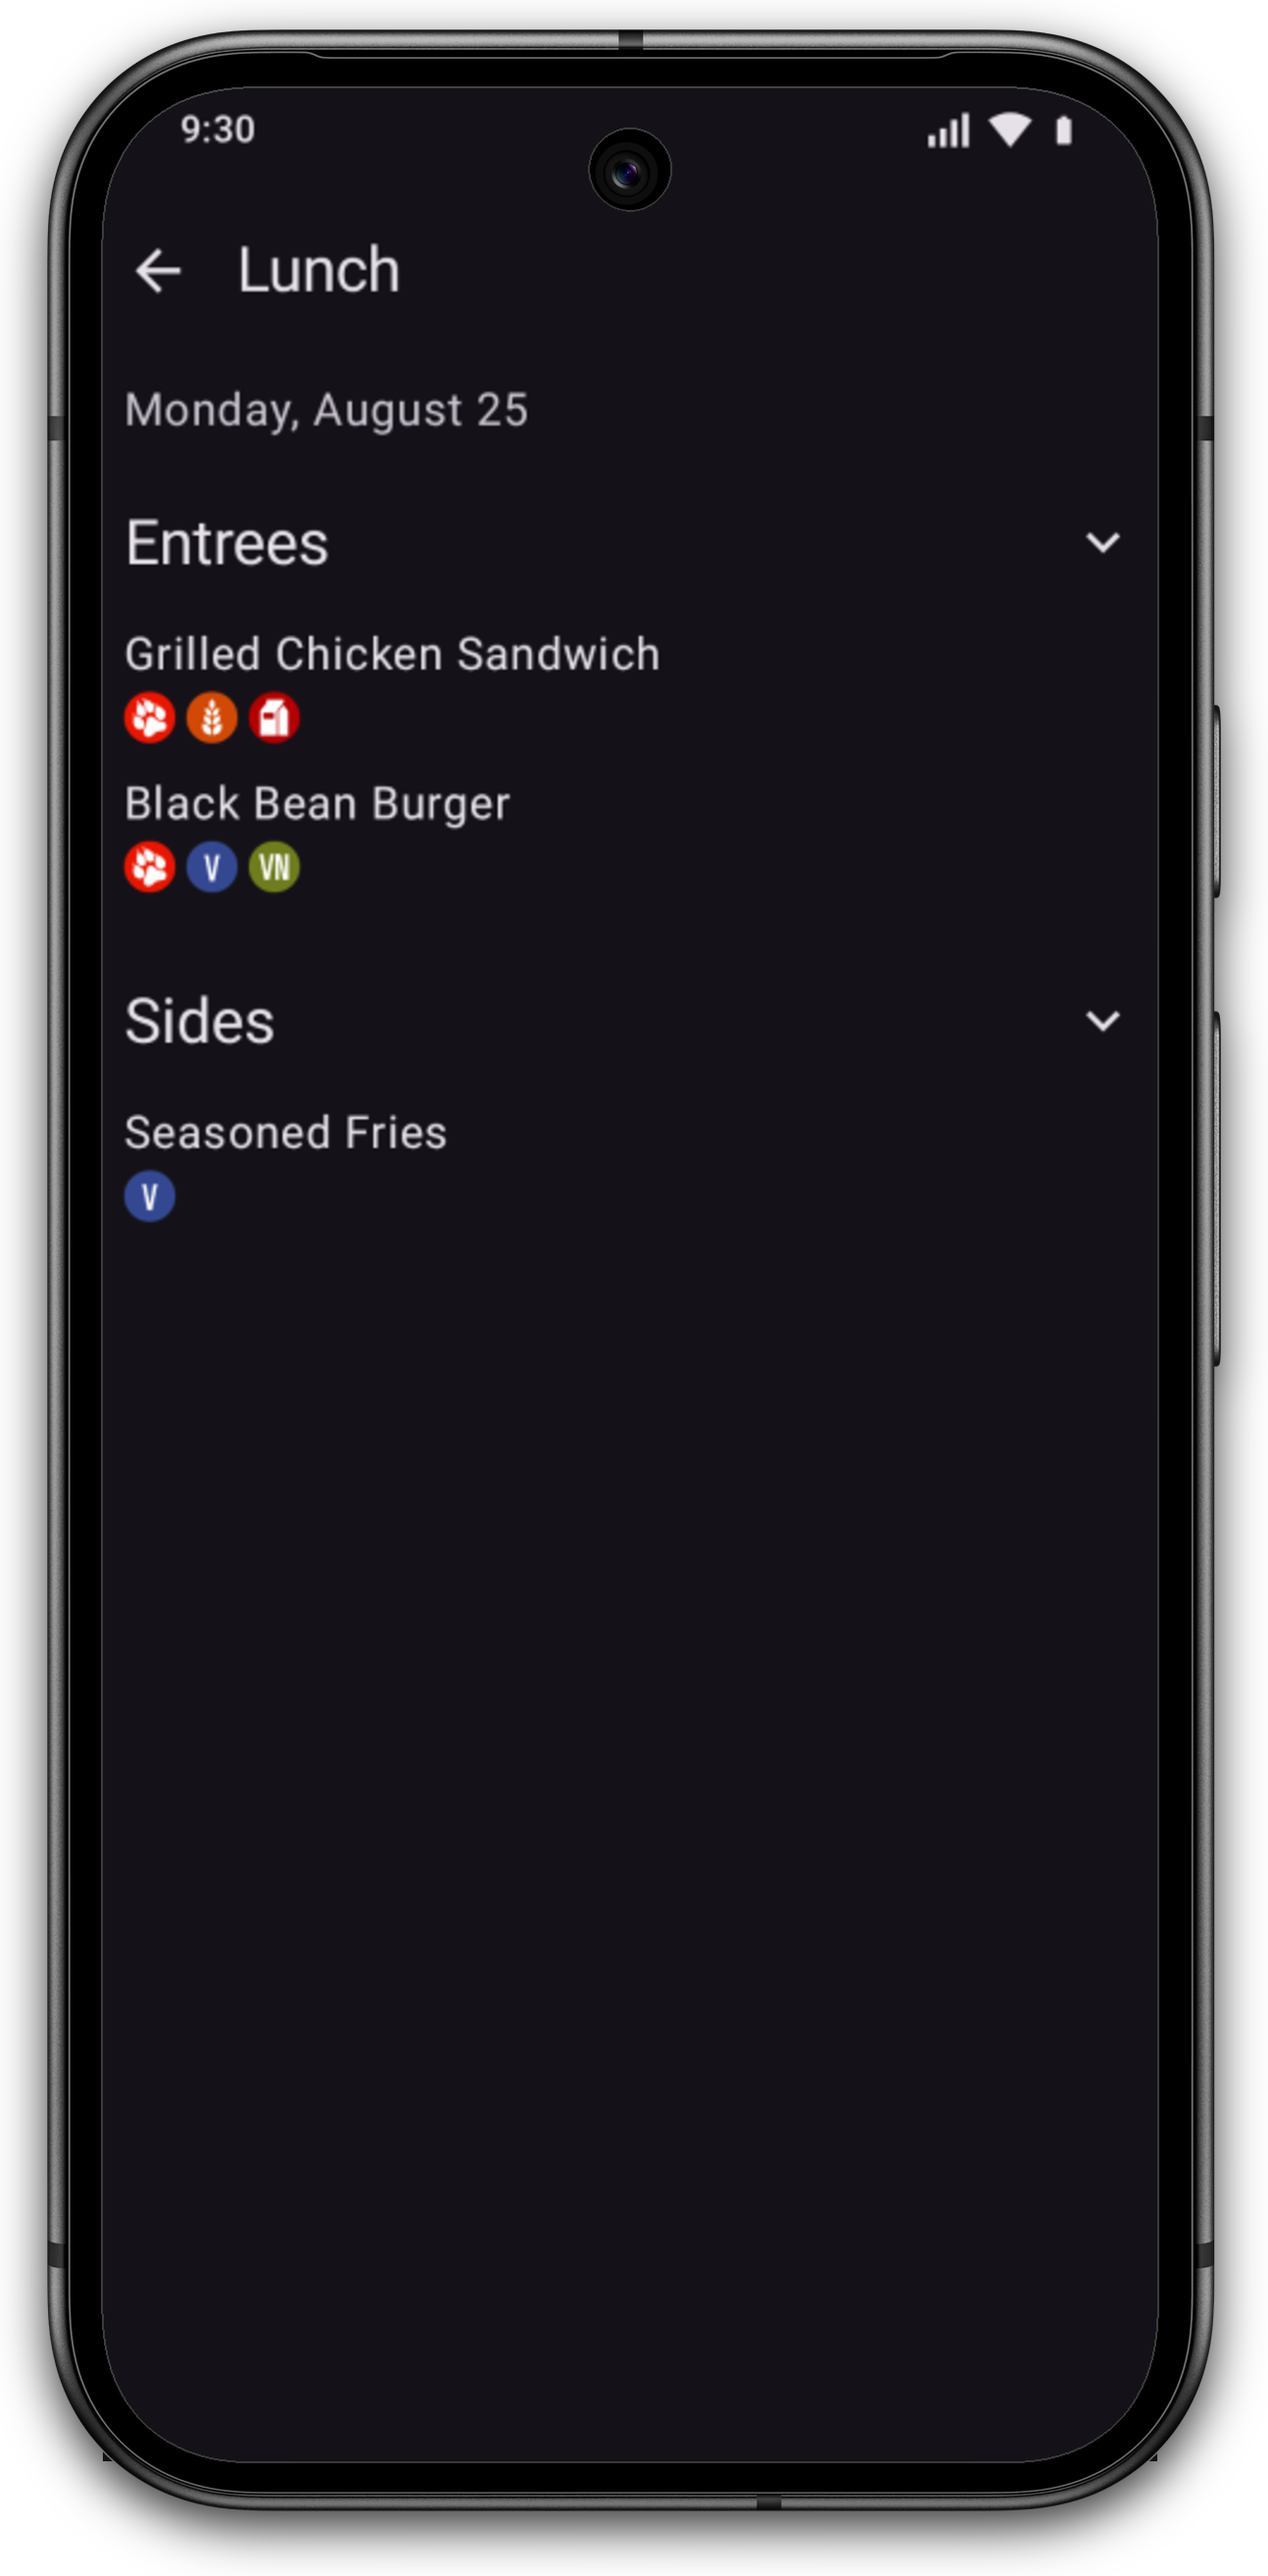
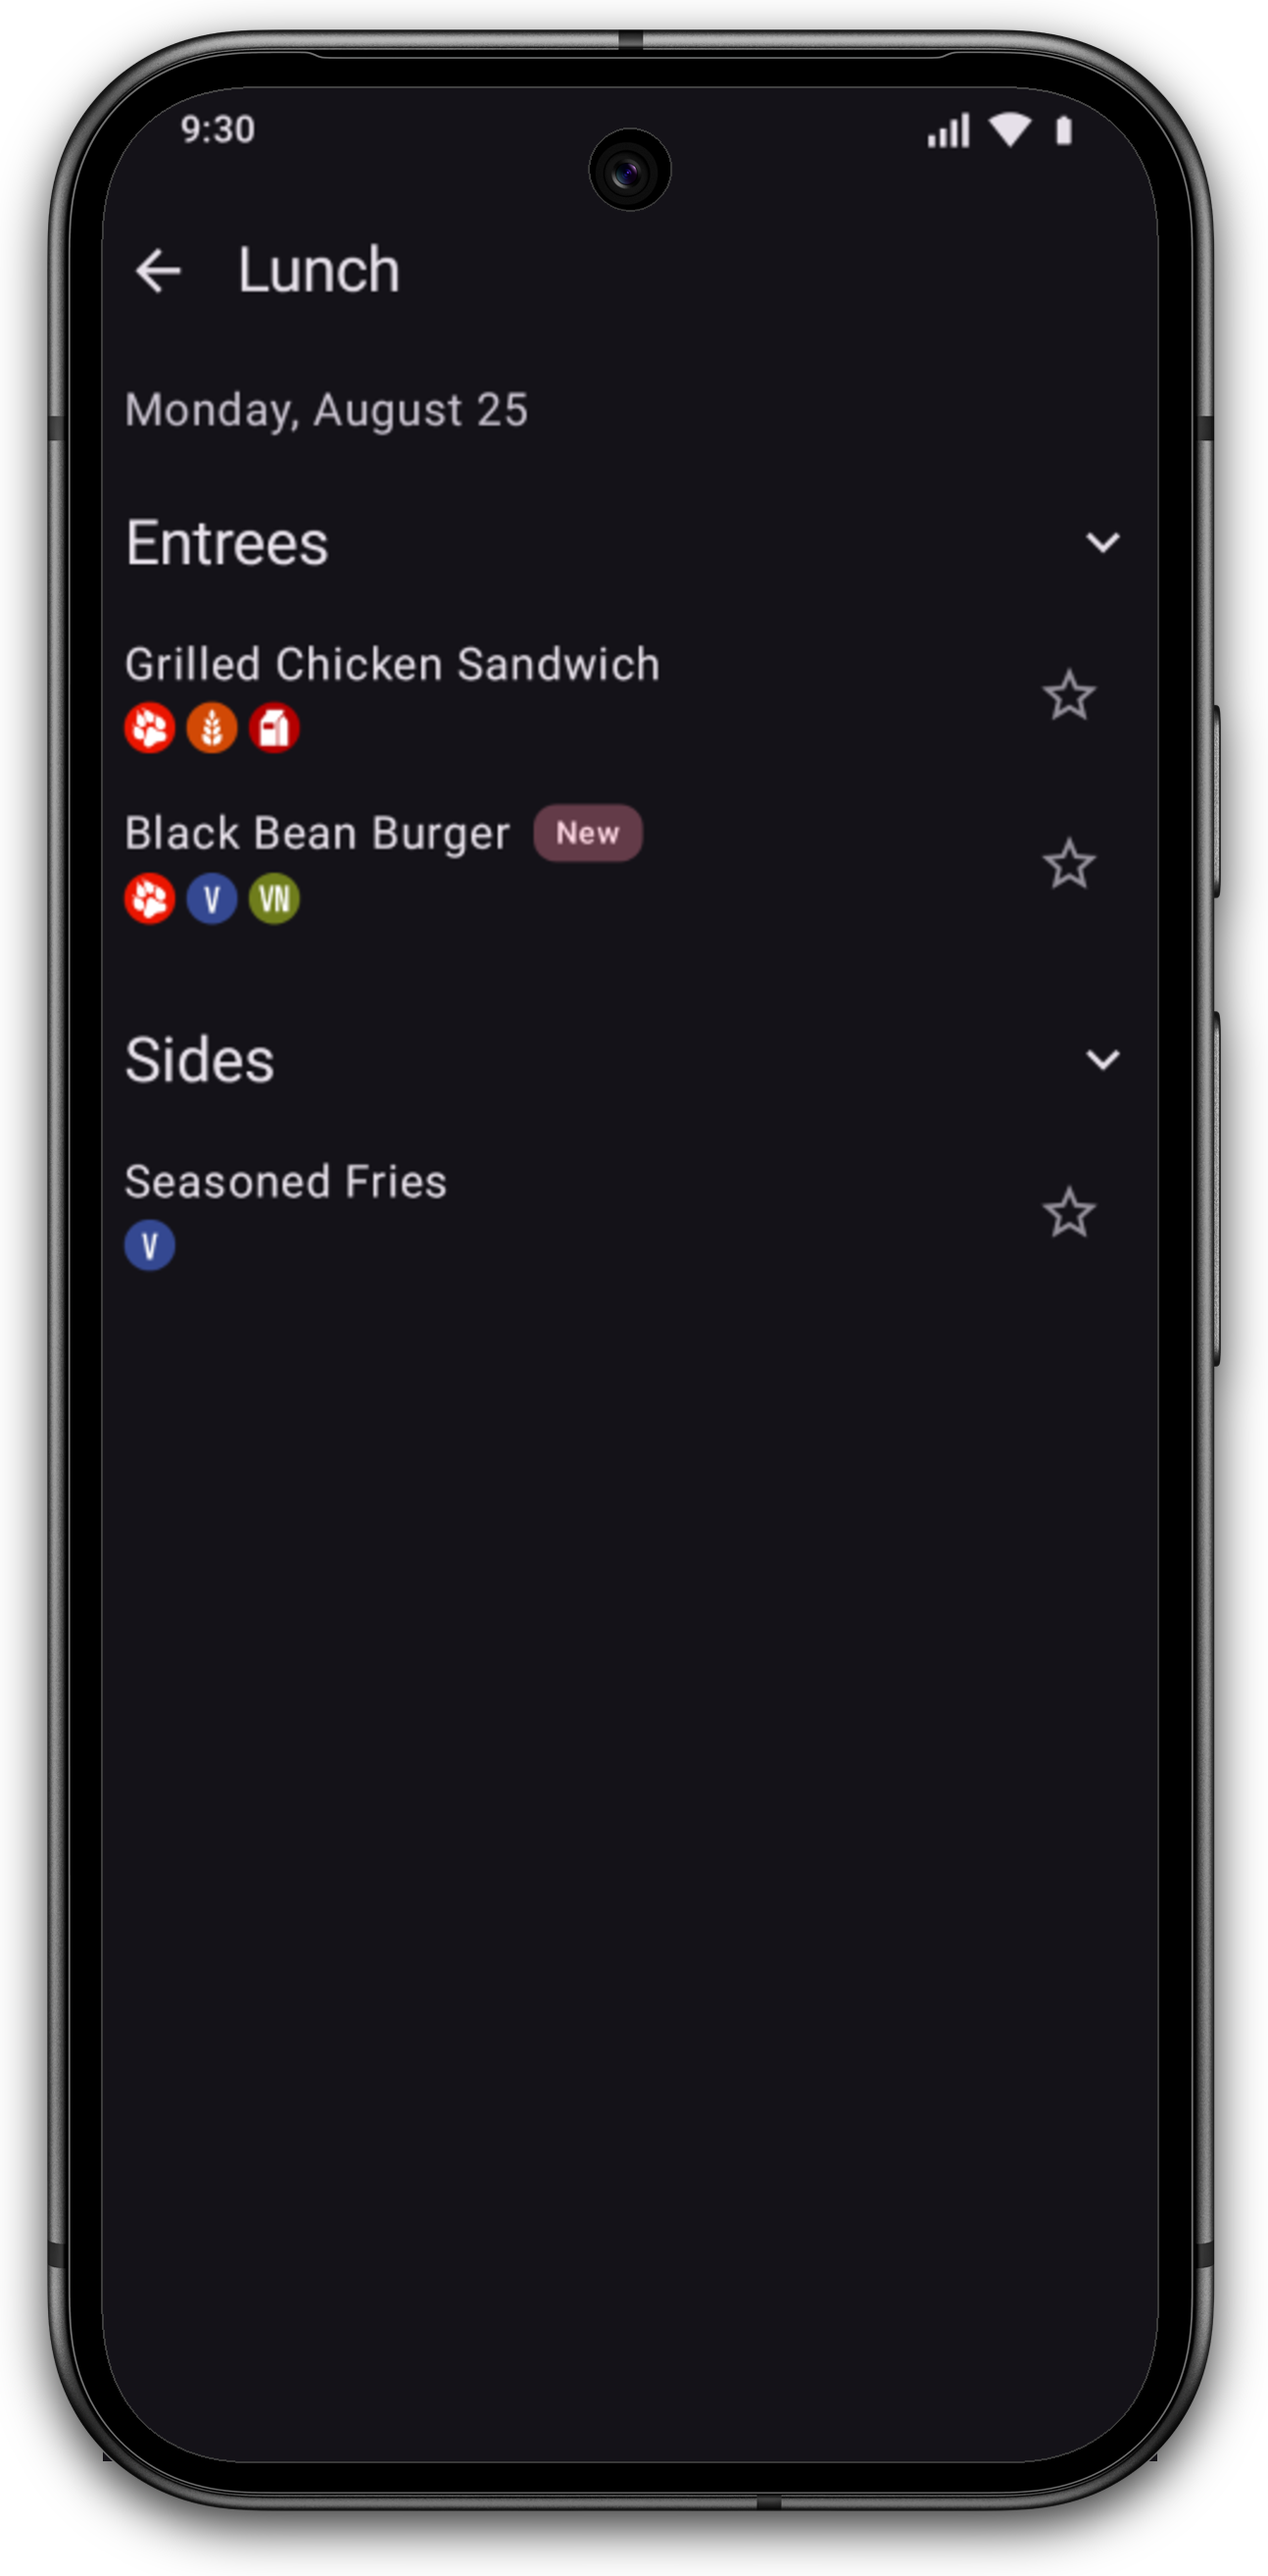
Add a "New" tag next to items that haven't been seen before at any given location

diff --git a/backend/src/main/kotlin/org/appdevncsu/foodfinder/shared/Database.kt b/backend/src/main/kotlin/org/appdevncsu/foodfinder/shared/Database.kt
@@ -46,6 +46,13 @@ object Database {
         val itemName: String,
     )
 
+    private data class MenuQueryData(
+        val menuDate: LocalDate,
+        val turnover: Map<Int, Double>,
+        val firstSeenByName: Map<String, LocalDate>,
+        val rows: List<ResultRow>,
+    )
+
     private val turnoverCache = ConcurrentHashMap<Int, TurnoverCacheEntry>()
 
     // Locations sourced from NetNutrition (netmenu2.cbord.com), keyed by NetNutrition unit ID.
@@ -376,25 +383,31 @@ object Database {
     }
 
     fun getMenu(menuId: Int): List<MenuSection> {
-        val (turnover, rows) = transaction {
-            val locationId = Menus
+        val data = transaction {
+            val menu = Menus
                 .selectAll()
                 .where { Menus.id eq menuId }
-                .singleOrNull()?.get(Menus.locationId)
+                .singleOrNull()
                 ?: return@transaction null
+            val locationId = menu[Menus.locationId]
 
-            val turnover = getSectionTurnover(locationId)
             val rows = MenuItems
                 .innerJoin(SectionsToItems) { MenuItems.id eq SectionsToItems.itemId and (SectionsToItems.menuId eq menuId) }
                 .leftJoin(MenuSections) { MenuSections.id eq SectionsToItems.sectionId }
                 .selectAll()
                 .orderBy(MenuSections.id to SortOrder.ASC).toList()
-            turnover to rows
+
+            MenuQueryData(
+                menuDate = menu[Menus.date],
+                turnover = getSectionTurnover(locationId),
+                firstSeenByName = getFirstSeenByLocation(locationId),
+                rows = rows,
+            )
         } ?: return emptyList()
 
         val sections = mutableListOf<MenuSection>()
         var section: MenuSection? = null
-        for (row in rows) {
+        for (row in data.rows) {
             if (section == null || row[MenuSections.id] != section.id) {
                 if (section != null) sections.add(section)
                 section = MenuSection(
@@ -403,12 +416,15 @@ object Database {
                     items = mutableListOf()
                 )
             }
+            val name = row[MenuItems.name]
+            val firstSeen = data.firstSeenByName[name.trim().lowercase()]
             (section.items as MutableList).add(
                 MenuItem(
                     id = row[MenuItems.id],
                     sectionId = row[SectionsToItems.sectionId],
-                    name = row[MenuItems.name],
-                    flags = row[MenuItems.flags]
+                    name = name,
+                    flags = row[MenuItems.flags],
+                    isNew = firstSeen == null || firstSeen >= data.menuDate
                 )
             )
         }
@@ -416,11 +432,32 @@ object Database {
 
         return sections.sortedWith(
             compareBy(
-                { if (it.id in turnover) 1 else 0 },
-                { turnover[it.id] ?: 0.0 },
+                { if (it.id in data.turnover) 1 else 0 },
+                { data.turnover[it.id] ?: 0.0 },
                 { it.id }
             )
         )
+    }
+
+    /**
+     * Maps each normalized menu item name to the earliest menu date it appeared in at
+     * [locationId]. Item IDs are recreated on every scrape, so only the name is stable.
+     * Used to flag items that are new to a location.
+     */
+    private fun getFirstSeenByLocation(locationId: Int): Map<String, LocalDate> {
+        val normalizedName = MenuItems.name.lowerCase()
+        val earliestDate = Menus.date.min()
+        return MenuItems
+            .innerJoin(SectionsToItems) { MenuItems.id eq SectionsToItems.itemId }
+            .innerJoin(Menus) { SectionsToItems.menuId eq Menus.id }
+            .select(normalizedName, earliestDate)
+            .where { Menus.locationId eq locationId }
+            .groupBy(normalizedName)
+            .mapNotNull {
+                val earliest = it[earliestDate] ?: return@mapNotNull null
+                it[normalizedName].trim().lowercase() to earliest
+            }
+            .toMap()
     }
 
     private fun getSectionTurnover(locationId: Int): Map<Int, Double> {

diff --git a/android/app/src/main/java/org/appdevncsu/foodfinder/composables/MenuItem.kt b/android/app/src/main/java/org/appdevncsu/foodfinder/composables/MenuItem.kt
@@ -1,6 +1,7 @@
 package org.appdevncsu.foodfinder.composables
 
 import androidx.compose.foundation.background
+import androidx.compose.foundation.layout.Arrangement
 import androidx.compose.foundation.layout.Column
 import androidx.compose.foundation.layout.Row
 import androidx.compose.foundation.layout.Spacer
@@ -47,15 +48,33 @@ fun MenuItem(
         verticalAlignment = Alignment.CenterVertically,
     ) {
         Column(modifier = Modifier.weight(1f)) {
-            Text(
-                text = menuItem.name,
-                style = MaterialTheme.typography.bodyLarge,
-                color = if (isFavorite) {
-                    MaterialTheme.colorScheme.primary
-                } else {
-                    MaterialTheme.colorScheme.onSurface
-                },
-            )
+            Row(
+                modifier = Modifier.fillMaxWidth(),
+                verticalAlignment = Alignment.CenterVertically,
+                horizontalArrangement = Arrangement.spacedBy(8.dp),
+            ) {
+                Text(
+                    text = menuItem.name,
+                    style = MaterialTheme.typography.bodyLarge,
+                    color = if (isFavorite) {
+                        MaterialTheme.colorScheme.primary
+                    } else {
+                        MaterialTheme.colorScheme.onSurface
+                    },
+                    modifier = Modifier.weight(1f, fill = false),
+                )
+                if (menuItem.isNew) {
+                    Text(
+                        text = stringResource(R.string.menu_item_new),
+                        style = MaterialTheme.typography.labelSmall,
+                        color = MaterialTheme.colorScheme.onTertiaryContainer,
+                        modifier = Modifier
+                            .clip(RoundedCornerShape(8.dp))
+                            .background(MaterialTheme.colorScheme.tertiaryContainer)
+                            .padding(horizontal = 8.dp, vertical = 2.dp),
+                    )
+                }
+            }
             Spacer(modifier = Modifier.height(4.dp))
             BadgeList(menuItem)
         }

diff --git a/backend/src/main/kotlin/org/appdevncsu/foodfinder/shared/Entities.kt b/backend/src/main/kotlin/org/appdevncsu/foodfinder/shared/Entities.kt
@@ -35,7 +35,9 @@ data class MenuItem(
     val id: Int,
     val sectionId: Int, // -> MenuSection
     val name: String, // e.g. Freshly Scrambled Eggs
-    val flags: List<String> // e.g. Halal, Vegan, Wolf Approved
+    val flags: List<String>, // e.g. Halal, Vegan, Wolf Approved
+    // True when this menu is the item name's first appearance at this location.
+    val isNew: Boolean = false
 )
 
 /** A location from dining.ncsu.edu */

diff --git a/android/app/src/test/java/org/appdevncsu/foodfinder/ReadmeScreenshotsTest.kt b/android/app/src/test/java/org/appdevncsu/foodfinder/ReadmeScreenshotsTest.kt
@@ -310,6 +310,7 @@ private val sampleSections = SectionList(
                     id = 2,
                     sectionId = 1,
                     flags = listOf("Wolf Approved", "Vegetarian", "Vegan"),
+                    isNew = true,
                 ),
             ),
         ),

diff --git a/android/app/src/main/java/org/appdevncsu/foodfinder/data/APIClient.kt b/android/app/src/main/java/org/appdevncsu/foodfinder/data/APIClient.kt
@@ -96,7 +96,8 @@ data class Item(
     val name: String,
     val id: Int,
     val sectionId: Int,
-    val flags: List<String>
+    val flags: List<String>,
+    val isNew: Boolean = false
 ) {
     val normalizedName: String
         get() = normalizeFavoriteName(name)
